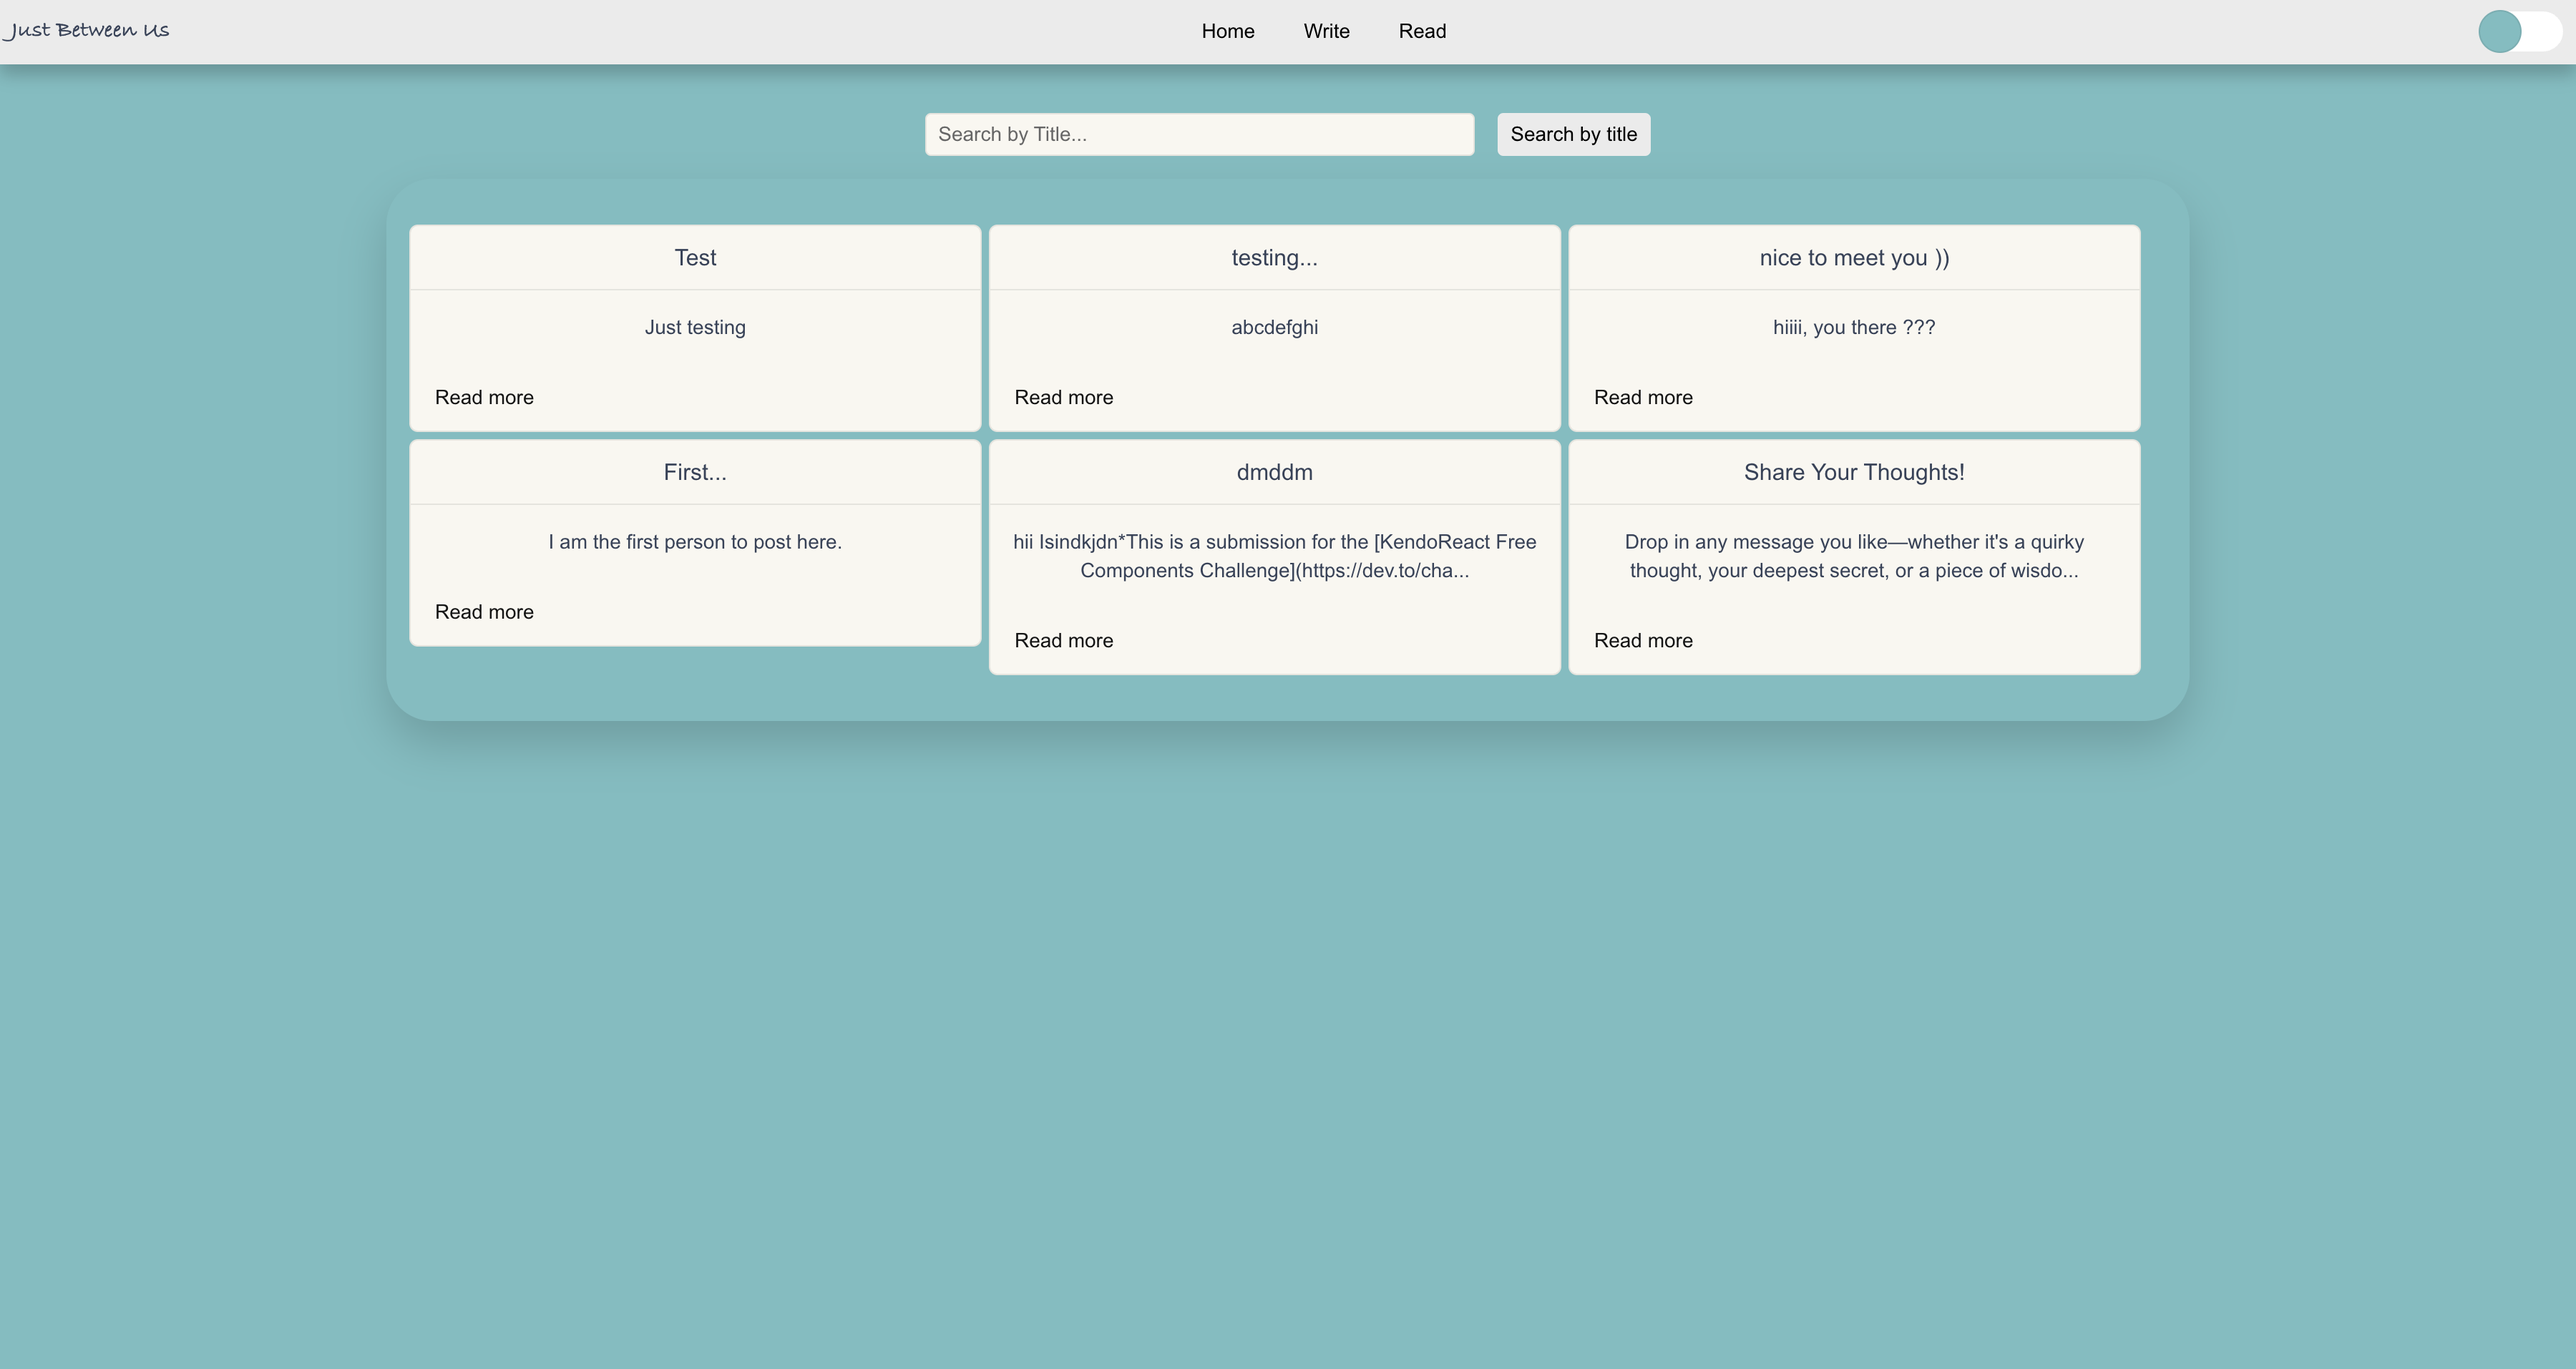
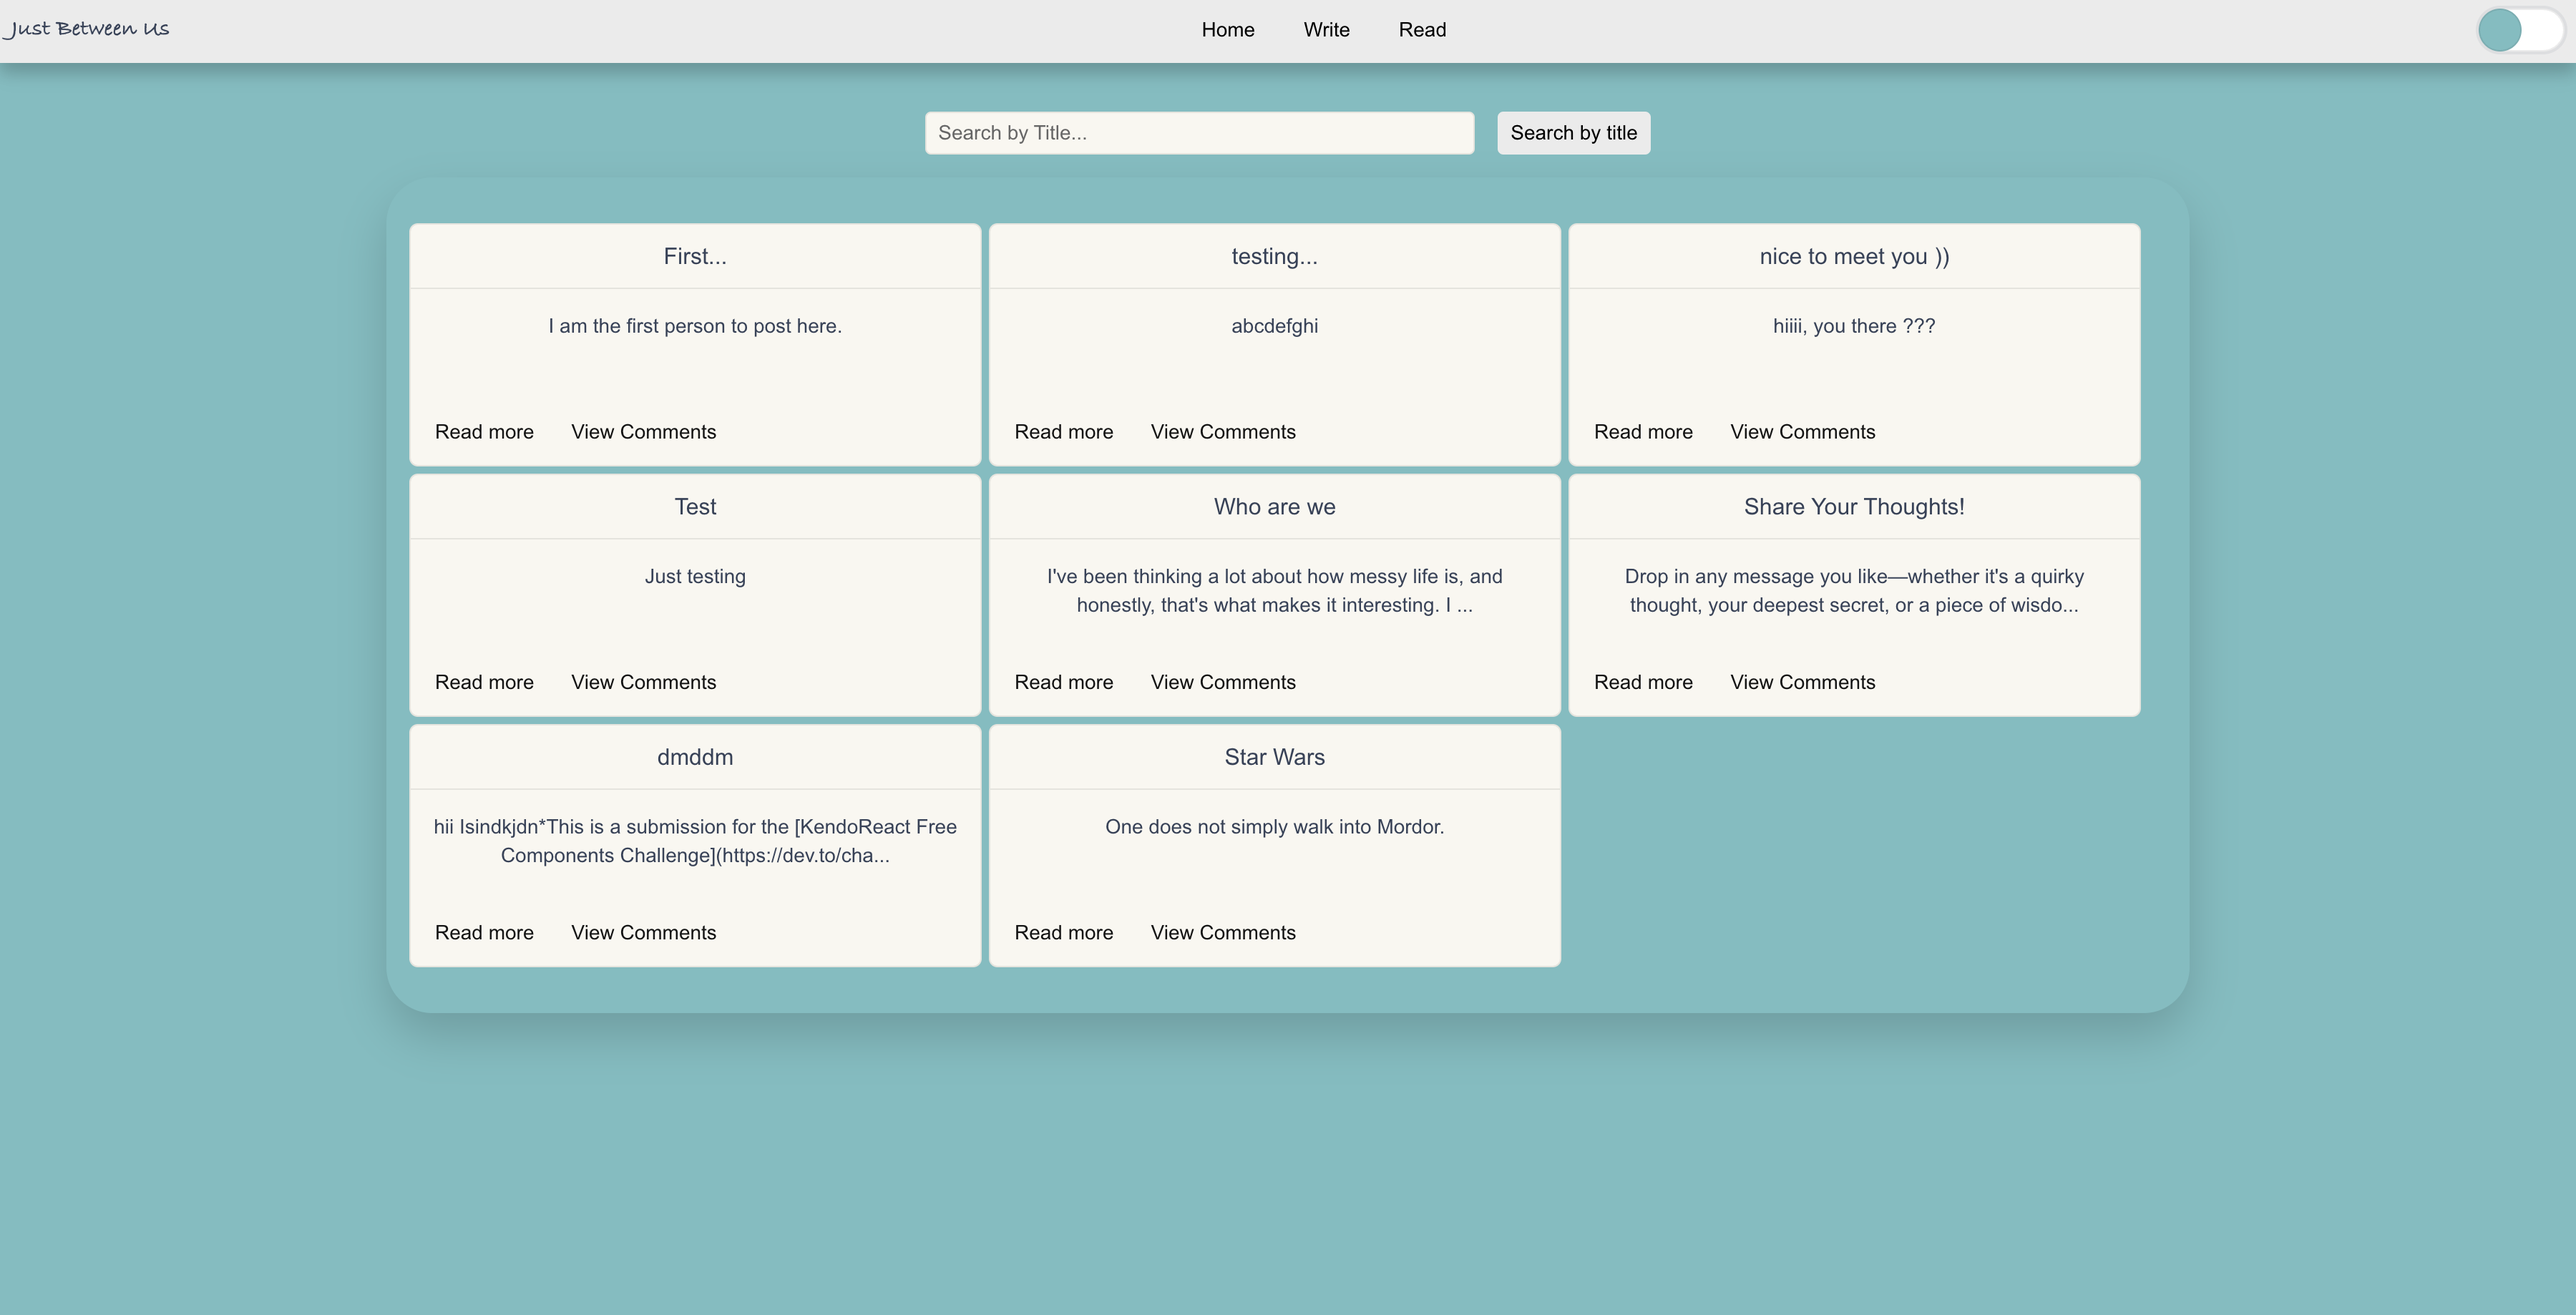
Implement comments feature in MessageBoard with UI updates and state management

Changed region(s): [[0.1556, 0.2791, 0.84, 0.7753], [0.1556, 0.1551, 0.84, 0.2481], [0.3422, 0.093, 0.6533, 0.124]]

diff --git a/src/pages/read.tsx b/src/pages/read.tsx
@@ -1,9 +1,9 @@
-import { ReactElement, useEffect, useState } from 'react';
+import { ReactElement, use, useEffect, useState } from 'react';
 import { GridLayout, GridLayoutItem } from '@progress/kendo-react-layout';
 import '@progress/kendo-theme-default/dist/all.css';
 import { Card, CardHeader, CardBody, CardTitle, CardActions } from '@progress/kendo-react-layout';
 import { Button } from '@progress/kendo-react-buttons';
-import { Message, ReadAll, ReadByTitle } from '../RecordKeeper';
+import { Message, ReadAll, ReadByTitle, Update } from '../RecordKeeper';
 import { Firestore } from 'firebase/firestore';
 import { Typography } from '@progress/kendo-react-common';
 import { Window } from '@progress/kendo-react-dialogs';
@@ -18,24 +18,23 @@ const Read = (props: { isLightMode: boolean; db: Firestore }): ReactElement => {
     const [data, setData] = useState<Message[]>([]);
     const [loading, setLoading] = useState<boolean>(false);
     const [visibleWindow, setVisibleWindow] = useState<boolean>(false);
-    const [title, setTitle] = useState<string>('');
+    const [commentWindow, setCommentWindow] = useState<boolean>(false);
+    const [post, setPost] = useState<Message>();
+    const [comment, setComment] = useState<string>('');
     const [searchTitle, setSearchTitle] = useState<string>('');
-    const [body, setBody] = useState<string>('');
     const [error, setError] = useState<boolean>(false);
 
     useEffect(() => {
-        setLoading(true);
-        ReadAll(db)
-            .then((result) => setData(randomise(result)))
-            .finally(() => setLoading(false));
-    }, [db]);
+        if (!commentWindow) {
+            setLoading(true);
+            ReadAll(db)
+                .then((result) => setData(randomise(result)))
+                .finally(() => setLoading(false));
+        }
+    }, [db, commentWindow]);
 
     const randomise = (array: Message[]): Message[] => {
         return array.sort(() => Math.random() - 0.5);
-    };
-
-    const toggleWindow = () => {
-        setVisibleWindow(!visibleWindow);
     };
 
     const truncate = (text: string, size: number): string => {
@@ -46,20 +45,24 @@ const Read = (props: { isLightMode: boolean; db: Firestore }): ReactElement => {
     };
 
     const showMore = (item: Message) => {
-        setTitle(item.title);
-        setBody(item.body);
-        toggleWindow();
+        setPost(item);
+        setVisibleWindow(true);
+    };
+
+    const enterComment = (item: Message) => {
+        setPost(item);
+        setCommentWindow(true);
     };
 
     return (
         <div className="WebPage">
-            {loading && !visibleWindow && (
+            {loading && !visibleWindow && !commentWindow && (
                 <div className="Loader">
                     <Loader type="infinite-spinner" themeColor={GetThemeColourV2(isLightMode)} />
                     <Typography.p>Retrieving Posts...</Typography.p>
                 </div>
             )}
-            {!loading && !visibleWindow && (
+            {!loading && (
                 <div
                     style={{
                         display: 'flex',
@@ -101,12 +104,11 @@ const Read = (props: { isLightMode: boolean; db: Firestore }): ReactElement => {
                                 >
                                     {data.map((item, index) => (
                                         <GridLayoutItem
-                                            className="grid-box"
                                             key={index}
                                             row={Math.floor(index / 3) + 1}
                                             col={(index % 3) + 1}
                                         >
-                                            <Card className="Card" style={{ width: 400, margin: 'auto' }}>
+                                            <Card className="Card" style={{ height: 170, width: 400, margin: 'auto' }}>
                                                 <CardHeader>
                                                     <CardTitle>{truncate(item.title, 50)}</CardTitle>
                                                 </CardHeader>
@@ -121,6 +123,14 @@ const Read = (props: { isLightMode: boolean; db: Firestore }): ReactElement => {
                                                         onClick={() => showMore(item)}
                                                     >
                                                         Read more
+                                                    </Button>
+                                                    <Button
+                                                        fillMode="flat"
+                                                        themeColor={GetThemeColour(!isLightMode)}
+                                                        type="button"
+                                                        onClick={() => enterComment(item)}
+                                                    >
+                                                        View Comments
                                                     </Button>
                                                 </CardActions>
                                             </Card>
@@ -156,13 +166,58 @@ const Read = (props: { isLightMode: boolean; db: Firestore }): ReactElement => {
                 <Window
                     className="Card"
                     themeColor={GetThemeColour(isLightMode)}
-                    title={title}
-                    onClose={toggleWindow}
+                    title={post?.title}
+                    onClose={() => setVisibleWindow(false)}
                     initialHeight={300}
                     initialWidth={500}
                     resizable={true}
                 >
-                    <Typography.p>{body}</Typography.p>
+                    <Typography.p>{post?.body}</Typography.p>
+                </Window>
+            )}
+            {commentWindow && (
+                <Window
+                    className="Card"
+                    themeColor={GetThemeColour(isLightMode)}
+                    title={`Comments on: ${post?.title}`}
+                    onClose={() => setCommentWindow(false)}
+                    initialHeight={300}
+                    initialWidth={500}
+                    resizable={true}
+                >
+                    {post?.comments.map((item, index) => (
+                        <div key={index}>
+                            <ul>
+                                <li>
+                                    <Typography.p>{item}</Typography.p>
+                                </li>
+                            </ul>
+                        </div>
+                    ))}
+                    <Typography.h3>Enter your comment:</Typography.h3>
+                    <TextBox
+                        className="TextInput"
+                        placeholder="Comment..."
+                        value={comment}
+                        onChange={(e) => setComment((e.target.value as string) ?? '')}
+                    />
+                    <Button
+                        style={{ marginTop: '1rem' }}
+                        fillMode="solid"
+                        themeColor={GetThemeColour(isLightMode)}
+                        type="button"
+                        onClick={() => {
+                            let newPost = post as Message;
+                            if (post) {
+                                newPost = { ...post, comments: [...post.comments, comment] };
+                                setPost({ ...post, comments: [...post.comments, comment] });
+                            }
+                            setComment('');
+                            Update(db, newPost?.title ?? '', newPost);
+                        }}
+                    >
+                        Add Comment
+                    </Button>
                 </Window>
             )}
         </div>
